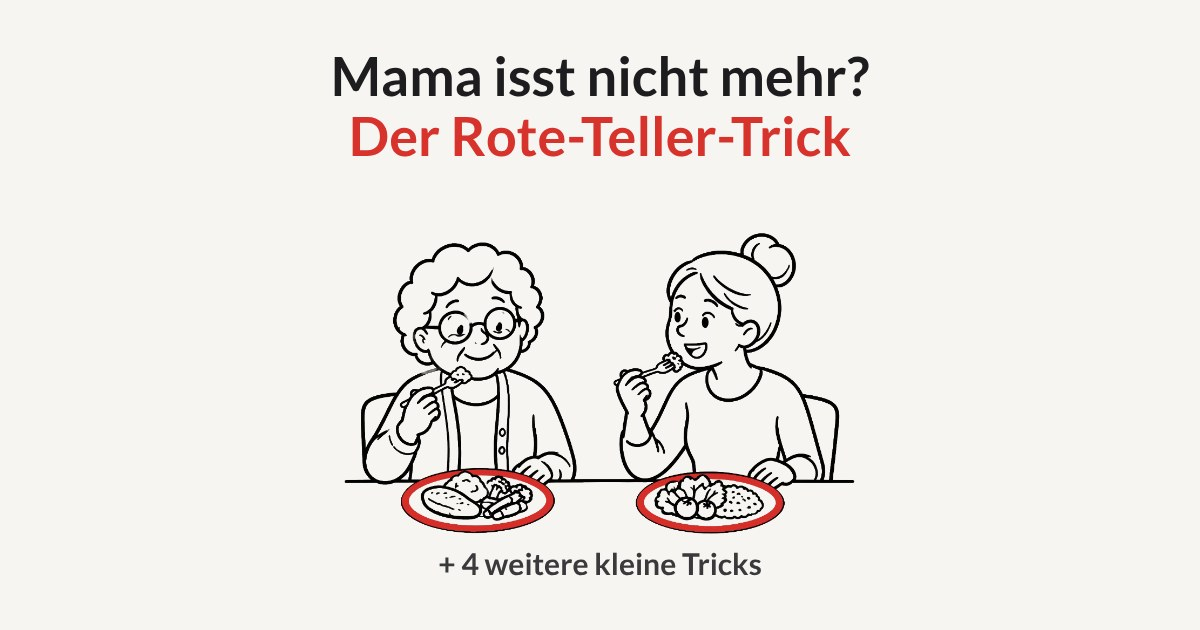
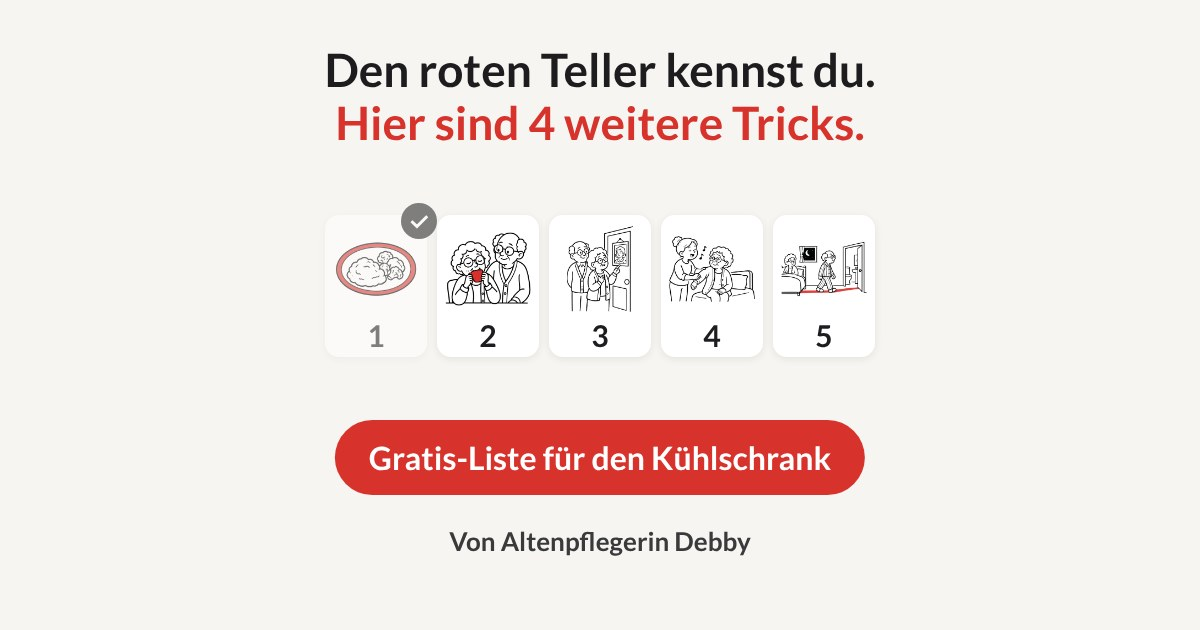
Vorschaubild und Titel als Aufruf zu den 4 weiteren Tricks
Claude-Session: https://claude.ai/code/session_01Hb2krZRkUMSxqUzGtXRmVD

diff --git a/teller/index.html b/teller/index.html
@@ -10,13 +10,13 @@
   <meta property="og:type" content="website">
   <meta property="og:site_name" content="Demenz Coach">
   <meta property="og:locale" content="de_DE">
-  <meta property="og:title" content="Mama isst nicht mehr? Der Rote-Teller-Trick">
-  <meta property="og:description" content="Und 4 weitere kleine Tricks bei Demenz, die Familien sofort ausprobieren können.">
+  <meta property="og:title" content="Den roten Teller kennst du? Hier sind 4 weitere Tricks bei Demenz">
+  <meta property="og:description" content="Alle 5 kleinen Tricks kostenlos als Liste für den Kühlschrank. Von Altenpflegerin Debby.">
   <meta property="og:url" content="https://dementiacoachapp.com/teller/">
   <meta property="og:image" content="https://dementiacoachapp.com/teller/og-teller.jpg">
   <meta property="og:image:width" content="1200">
   <meta property="og:image:height" content="630">
-  <meta property="og:image:alt" content="Mama isst nicht mehr? Der Rote-Teller-Trick. Zeichnung: Oma und Tochter essen von roten Tellern.">
+  <meta property="og:image:alt" content="Den roten Teller kennst du. Hier sind 4 weitere Tricks. Fünf Zeichnungen der Tricks und der Hinweis auf die kostenlose Liste für den Kühlschrank.">
   <meta name="twitter:card" content="summary_large_image">
   <title>Mama isst nicht mehr? Der Rote-Teller-Trick | Demenz Coach</title>
   <link rel="canonical" href="https://dementiacoachapp.com/teller/">
